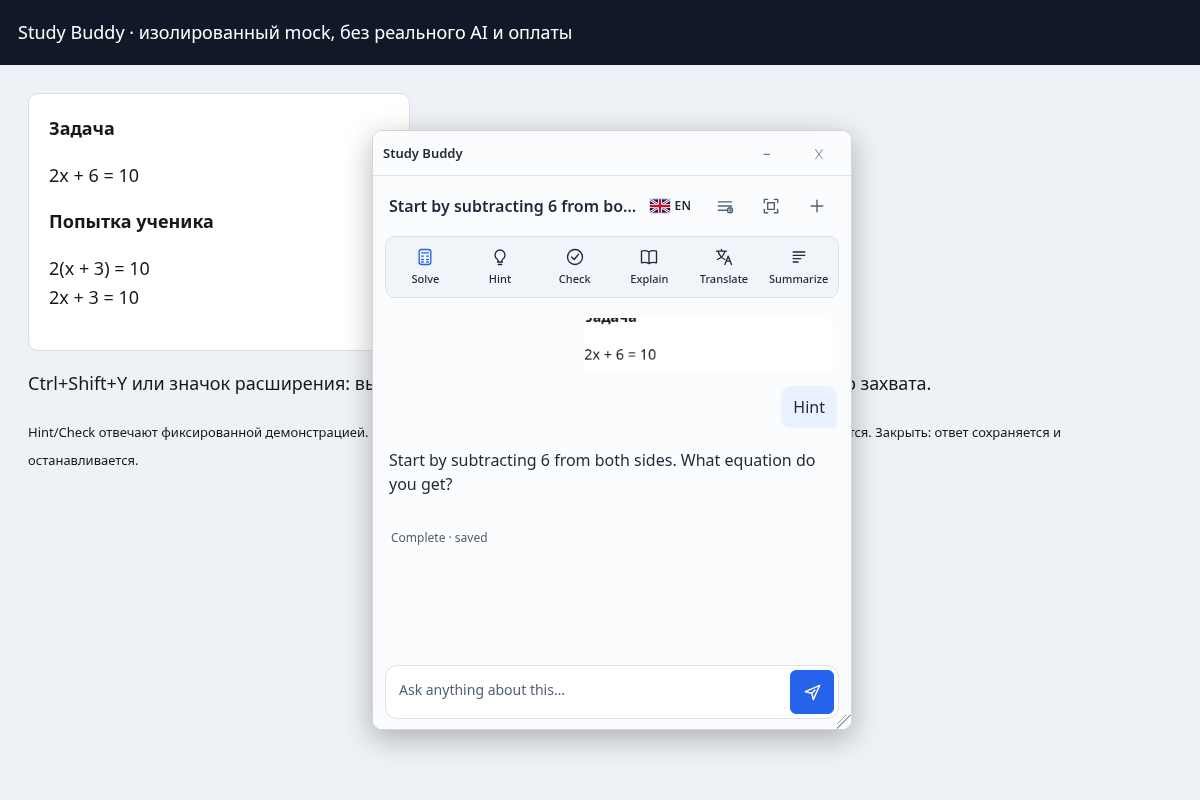
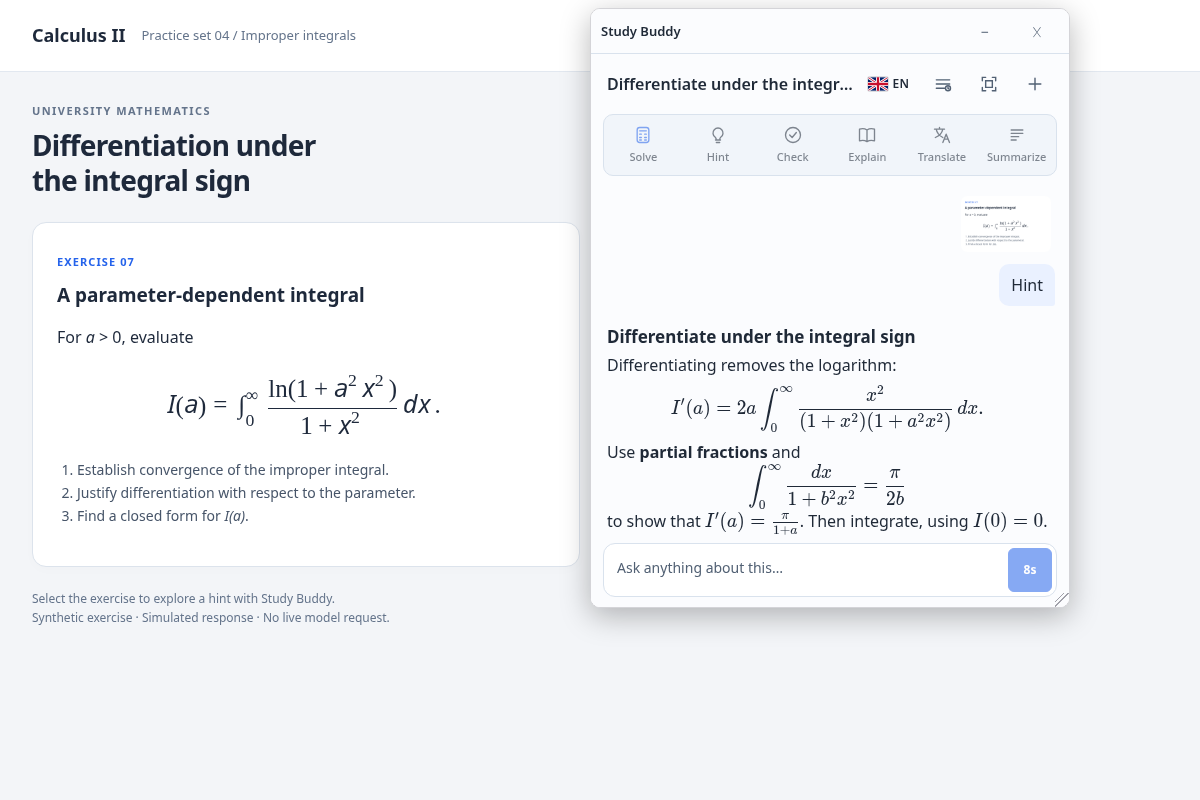
docs: show English university calculus portfolio demo

diff --git a/docs/demo.md b/docs/demo.md
@@ -25,12 +25,12 @@ The interactive preview needs a graphical desktop. The automated smoke run uses 
 npm run preview:local
 ```
 
-The script builds an isolated copy of the extension, starts the fixture and gateway, opens Chromium and captures the equation on the demo page. Wait for `READY` in the terminal; by default the page is served at `http://127.0.0.1:4187/demo`.
+The script builds an isolated copy of the extension, starts the fixture and gateway, opens Chromium and captures the full parameter-dependent improper integral exercise on the demo page. Wait for `READY` in the terminal; by default the page is served at `http://127.0.0.1:4187/demo`.
 
 1. Inspect the captured image in the chat. Capture alone does not generate an answer.
 2. Click **Hint**. Watch the fixed response arrive in chunks and finish with a saved status. This verifies transport and UI behavior rather than tutoring quality.
 3. Minimize and restore the panel. Use the toolbar icon or shortcut to select another region, then continue in the same conversation.
-4. Change the answer language using the language button in the chat toolbar. The mock has fixed English and Russian fixture replies; it does not translate arbitrary content.
+4. Change the answer language using the language button in the chat toolbar. The mock response is fixed in English; changing the answer-language setting does not translate this deterministic fixture.
 5. Close the panel. Right-click the extension icon and choose **Show history** to reopen the saved conversation.
 
 The fixture recognizes the canonical Hint and Check instructions. Other tasks and free-form questions receive a generic demonstration answer. Between generation starts, the real backend cooldown applies.
@@ -54,7 +54,7 @@ STUDY_BUDDY_PREVIEW_PORT=4188 npm run preview:local
 npm run verify
 ```
 
-This run performs a real toolbar action, selects a 310 × 70 CSS-pixel region of the synthetic page, waits for the captured image, clicks Hint, observes partial output, waits for completion and reloads the chat document. It requires the saved answer to reappear without a second upstream request, then closes its browser and service.
+This run performs a real toolbar action, selects the 544 × 340 CSS-pixel exercise card on the synthetic page, waits for the captured image, clicks Hint, observes partial output, waits for completion and reloads the chat document. It requires the saved answer to reappear without a second upstream request, then closes its browser and service.
 
 Each run creates a separate `review/preview/run-*/` directory with:
 
@@ -65,7 +65,7 @@ Each run creates a separate `review/preview/run-*/` directory with:
 | `gateway.sqlite` | Preview-only operational database |
 | `dist/` and `profile/` | Isolated extension build and browser profile |
 
-The [README screenshot](images/demo.png) was captured from the actual reference dist by this scenario on 2026-11-01 with Chromium at 1200 × 800; [narrow view](images/narrow.png) uses 320 × 568. See [current state](../CURRENT-STATE.md) for source/artifact equivalence. Its study page is synthetic and its answer is a mock. It is not a capture of a student's data or a live model evaluation.
+The [README screenshot](images/demo.png) was captured from the actual reference dist by this scenario on 2026-11-01 with Chromium at 1200 × 800; [narrow view](images/narrow.png) uses 320 × 568. See [current state](../CURRENT-STATE.md) for source/artifact equivalence. The page presents an English university calculus exercise on a parameter-dependent improper integral. Its study page is synthetic and its answer is a mock. It is not a capture of a student's data or a live model evaluation.
 
 ## Verification
 

diff --git a/CURRENT-STATE.md b/CURRENT-STATE.md
@@ -16,7 +16,7 @@ Read this file before using dated task, release or deployment notes. `FACT` desc
 
 The actual reference `dist` was loaded unchanged in an isolated Chromium 148.0.7778.96 profile. Its compiled HTTPS gateway was redirected only inside that test browser to a loopback TLS relay, real local backend and deterministic upstream fixture. No production generation was requested.
 
-Passed: toolbar-triggered region capture; visible incremental answer; completion; reload restoration without another upstream request; answer-language picker; history; minimize/restore; Close preserving the saved conversation; six task controls and visible composer at 320 × 568 without horizontal overflow. Page errors: **0**. The full-page screenshot uses 1200 × 800.
+Passed: toolbar-triggered region capture; visible incremental answer; completion; reload restoration without another upstream request; answer-language picker; history; minimize/restore; Close preserving the saved conversation; six task controls and visible composer at 320 × 568 without horizontal overflow. Page errors: **0**. The English calculus screenshot shows differentiation under the integral sign for a parameter-dependent improper integral. The full-page screenshot uses 1200 × 800.
 
 Evidence: [record and artifact hashes](docs/validation/runtime-2026-11-01.json), [full view](docs/images/demo.png), [narrow view](docs/images/narrow.png).
 

diff --git a/README.md b/README.md
@@ -6,7 +6,7 @@ A Chromium extension that turns a selected region of a web page into a study con
 
 [Validated current state](CURRENT-STATE.md) · [Try the demo](docs/demo.md) · [Architecture and engineering decisions](docs/architecture.md) · [Backend setup and API](src/backend/README.md)
 
-![Study Buddy displaying a captured equation and a saved hint beside a study page](docs/images/demo.png)
+![Study Buddy displaying an English parameter-dependent improper integral and calculus hint](docs/images/demo.png)
 
 *Real extension and HTTP backend, with a deterministic mock response. This screenshot demonstrates the application flow, not model quality.*
 
